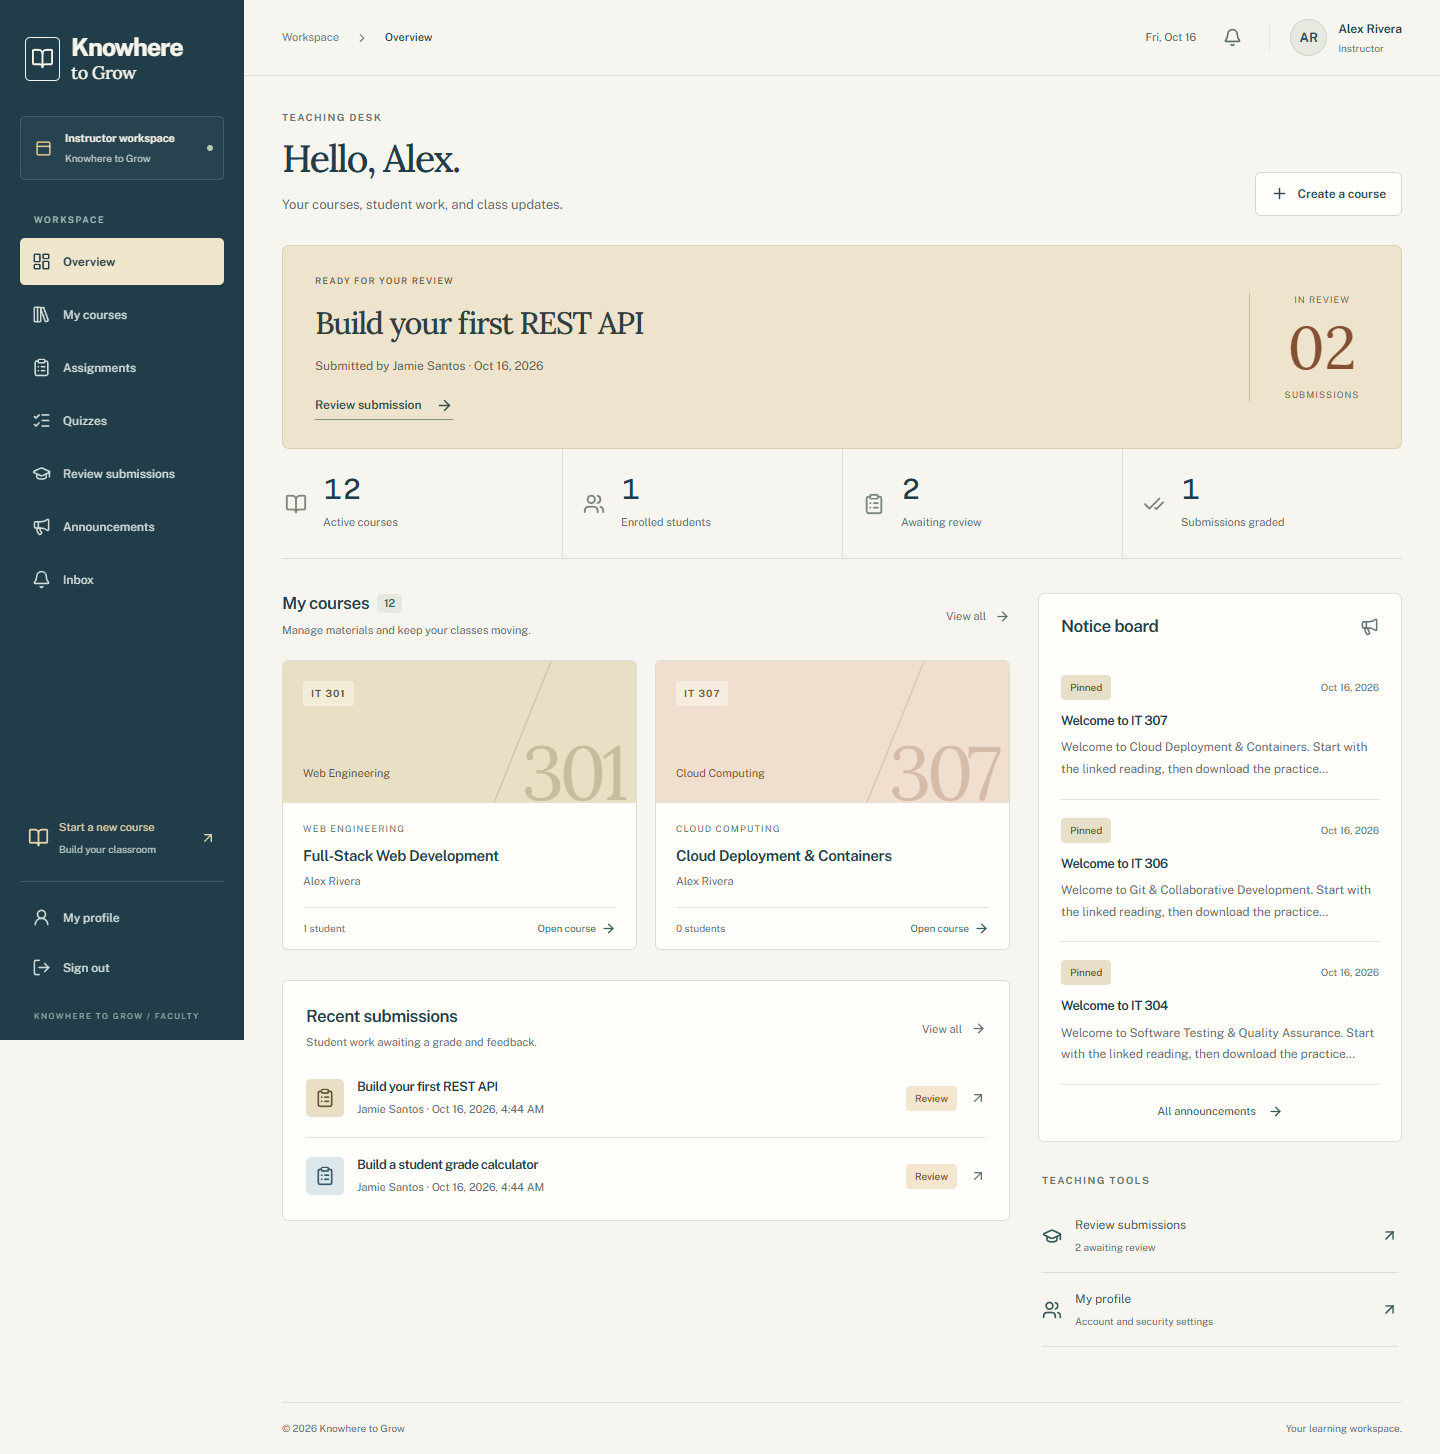
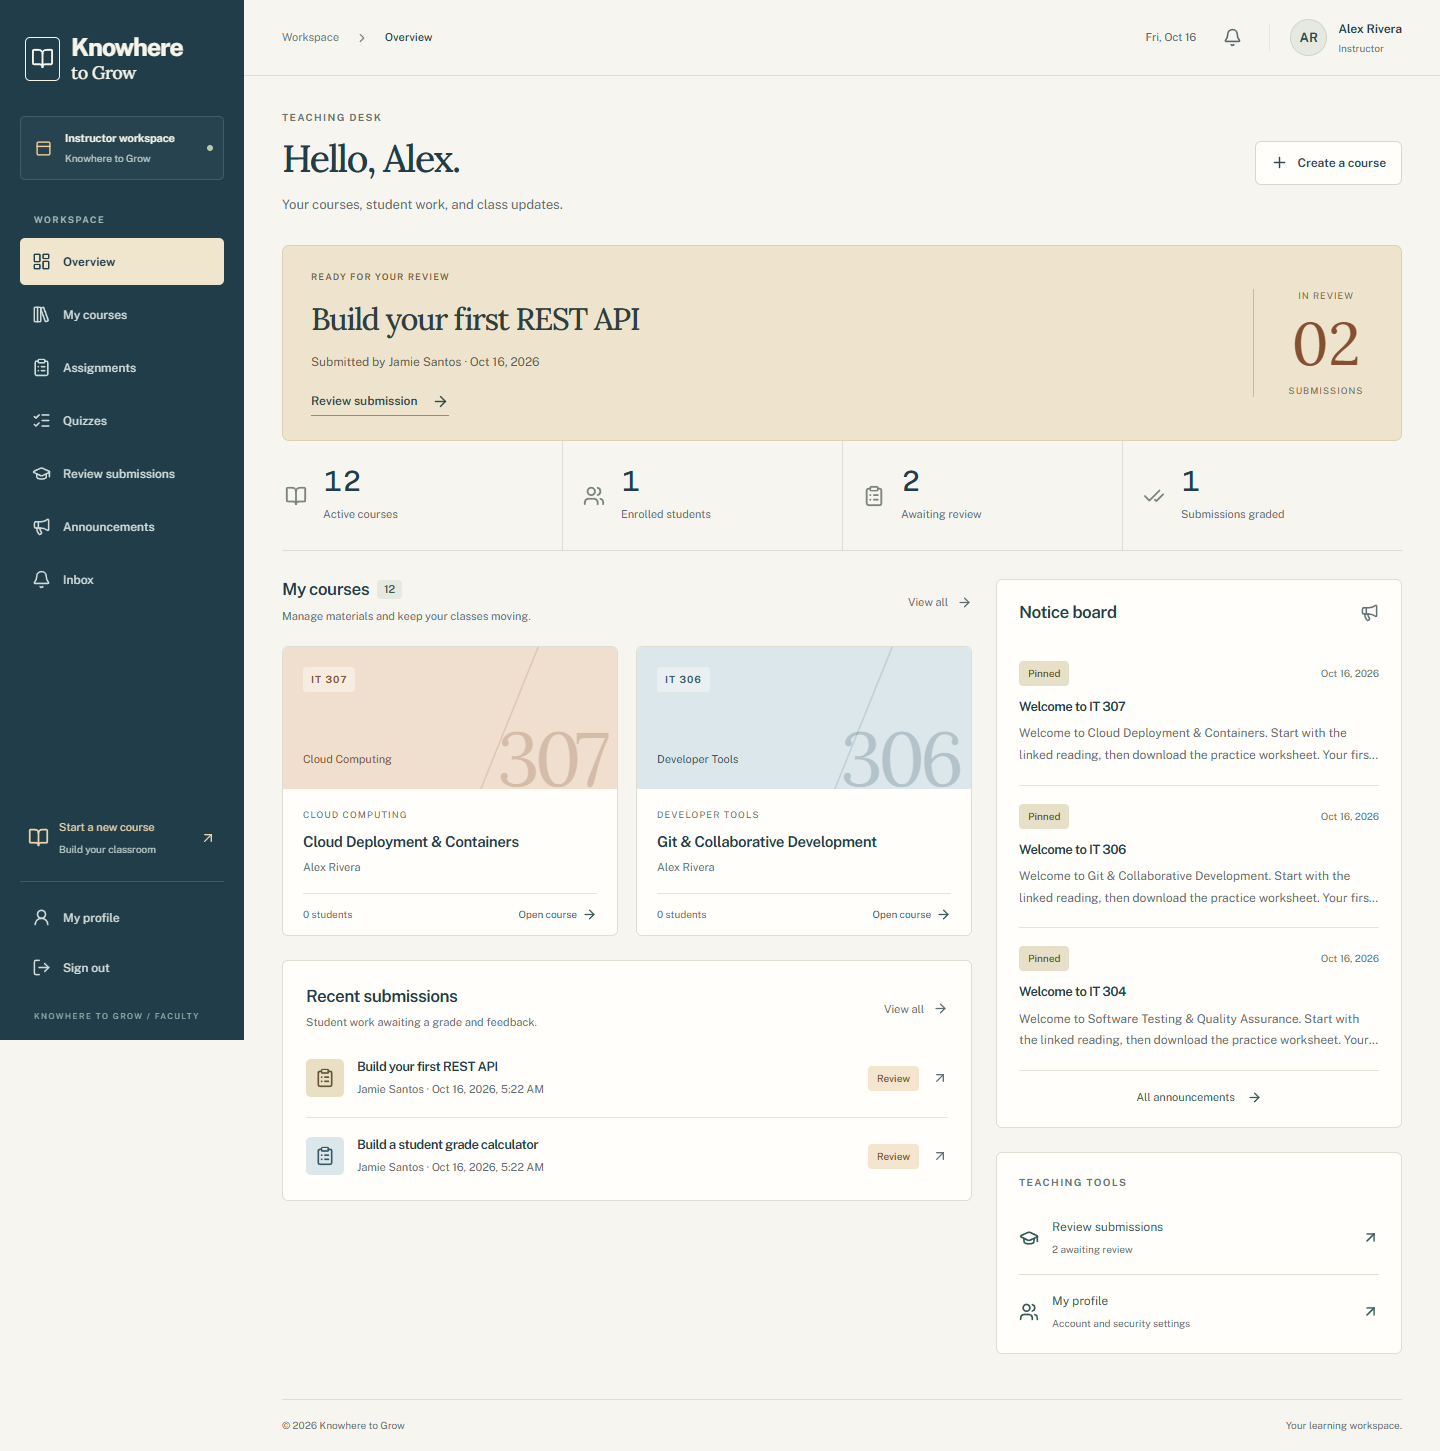
Polish dashboard layout and fix Flutter integration

diff --git a/client/src/workspace.css b/client/src/workspace.css
@@ -564,6 +564,106 @@ a:focus-visible {
   color: #5f6e70;
   margin-top: 6px;
 }
+.dashboard-page > .page-heading {
+  align-items: center;
+  gap: 24px;
+}
+.dashboard-page .welcome-banner {
+  min-height: 168px;
+  padding: 24px 28px;
+}
+.dashboard-page .stats-grid {
+  margin-bottom: 28px;
+}
+.dashboard-page .dashboard-columns {
+  grid-template-columns: minmax(0, 1.7fr) minmax(300px, 1fr);
+  align-items: start;
+  gap: 24px;
+}
+.dashboard-page .dashboard-left,
+.dashboard-page .dashboard-right {
+  min-width: 0;
+  gap: 24px;
+}
+.dashboard-page .dashboard-right {
+  display: grid;
+  grid-template-columns: minmax(0, 1fr);
+}
+.dashboard-page .dashboard-courses > .course-card:only-child {
+  grid-column: 1 / -1;
+  display: grid;
+  grid-template-columns: minmax(150px, 34%) minmax(0, 1fr);
+}
+.dashboard-page .dashboard-courses > .course-card:only-child .course-cover {
+  height: auto;
+  min-height: 178px;
+}
+.dashboard-page .dashboard-courses > .course-card:only-child .course-card-body {
+  min-width: 0;
+  display: flex;
+  flex-direction: column;
+  justify-content: center;
+  padding: 22px 24px 0;
+}
+.dashboard-page
+  .dashboard-courses
+  > .course-card:only-child
+  .course-card-footer {
+  margin-top: auto;
+}
+.dashboard-page .announcement-widget .quiet-empty.vertical {
+  min-height: 120px;
+  padding: 18px 0;
+}
+.dashboard-page .desk-links {
+  padding: 22px;
+  border: 1px solid #deded4;
+  border-radius: 6px;
+  background: #fffefb;
+}
+.dashboard-page .desk-links > a:last-child {
+  border-bottom: 0;
+  padding-bottom: 0;
+}
+@media (max-width: 1100px) {
+  .dashboard-page .dashboard-columns {
+    grid-template-columns: minmax(0, 1fr);
+  }
+  .dashboard-page .dashboard-right {
+    grid-template-columns: repeat(2, minmax(0, 1fr));
+  }
+}
+@media (max-width: 760px) {
+  .dashboard-page > .page-heading {
+    align-items: flex-start;
+    gap: 16px;
+  }
+  .dashboard-page .welcome-banner {
+    padding: 22px;
+  }
+  .dashboard-page .dashboard-right {
+    grid-template-columns: minmax(0, 1fr);
+  }
+}
+@media (max-width: 540px) {
+  .dashboard-page .dashboard-courses > .course-card:only-child {
+    grid-template-columns: minmax(0, 1fr);
+  }
+  .dashboard-page .dashboard-courses > .course-card:only-child .course-cover {
+    min-height: 125px;
+  }
+  .dashboard-page
+    .dashboard-courses
+    > .course-card:only-child
+    .course-card-body {
+    padding: 20px 20px 0;
+  }
+}
+@media (max-width: 360px) {
+  .dashboard-page .welcome-banner {
+    padding: 20px 17px;
+  }
+}
 .segmented,
 .role-picker {
   background: #eaece3;

diff --git a/client/e2e/dashboard-layout.spec.js b/client/e2e/dashboard-layout.spec.js
@@ -1,0 +1,57 @@
+import { test, expect } from "@playwright/test";
+
+test("a single instructor course fills the dashboard column and sparse content fits phone through wide desktop", async ({
+  page,
+}) => {
+  await page.route("**/api/dashboard", async (route) => {
+    const response = await route.fetch();
+    const data = await response.json();
+    await route.fulfill({
+      response,
+      json: {
+        ...data,
+        courses: data.courses.slice(0, 1),
+        assignments: [],
+        submissions: [],
+        announcements: [],
+      },
+    });
+  });
+  await page.goto("/login");
+  await page.getByLabel("Email address").fill("instructor@classroom.test");
+  await page.getByLabel("Password", { exact: true }).fill("Classroom2026!");
+  await page.getByRole("button", { name: "Sign in", exact: true }).click();
+  await expect(page.getByRole("heading", { name: /Hello,/ })).toBeVisible();
+  await expect(
+    page.getByRole("heading", { name: "Your review queue is clear." }),
+  ).toBeVisible();
+  for (const width of [320, 390, 768, 1024, 1440, 1920, 2160]) {
+    await page.setViewportSize({ width, height: 900 });
+    const grid = page.locator(".dashboard-courses");
+    const card = grid.locator(".course-card");
+    await expect(card).toHaveCount(1);
+    const gridBounds = await grid.boundingBox();
+    const cardBounds = await card.boundingBox();
+    expect(
+      Math.abs(cardBounds.width - gridBounds.width),
+      `single course fills its column at ${width}px`,
+    ).toBeLessThan(2);
+    expect(
+      await page.evaluate(
+        () => document.documentElement.scrollWidth <= innerWidth,
+      ),
+      `no overflow at ${width}px`,
+    ).toBe(true);
+    const cover = await card.locator(".course-cover").boundingBox();
+    const body = await card.locator(".course-card-body").boundingBox();
+    if (width > 540) expect(body.x).toBeGreaterThan(cover.x);
+    else expect(body.y).toBeGreaterThan(cover.y);
+    if (width === 1440 || width === 390) {
+      await page.screenshot({
+        path: `../docs/screenshots/web-instructor-dashboard-single-course${width === 390 ? "-phone" : ""}.png`,
+        fullPage: true,
+        animations: "disabled",
+      });
+    }
+  }
+});

diff --git a/client/src/Dashboard.jsx b/client/src/Dashboard.jsx
@@ -70,7 +70,7 @@ export default function Dashboard() {
         ],
       ];
   return (
-    <>
+    <div className="dashboard-page">
       <PageHeading
         eyebrow={instructor ? "TEACHING DESK" : "STUDENT DESK"}
         title={`Hello, ${user.name.split(" ")[0]}.`}
@@ -340,6 +340,6 @@ export default function Dashboard() {
           </section>
         </aside>
       </div>
-    </>
+    </div>
   );
 }

diff --git a/docs/TEST_REPORT.md b/docs/TEST_REPORT.md
@@ -17,6 +17,12 @@ Verification date: **16 October 2026 (Asia/Singapore)**. The latest checks inclu
 | Android APK/device execution | **Not verified** | Android SDK/emulator/device setup is still required |
 | iOS build/device execution | **Not verified** | Requires macOS, Xcode, and signing |
 
+## Dashboard layout verification
+
+The latest dashboard layout uses the full course-column width for a single course, with a horizontal course card on larger screens and a stacked card on phones. The review banner is more compact; the heading action, notice board, and teaching tools use consistent alignment and spacing. Styles are scoped to the learning dashboard.
+
+React lint, production build, and Vercel configuration checks passed. Six targeted Edge workflows passed: the new sparse instructor dashboard case plus all five existing student/instructor workflows. The single-course regression checks 320, 390, 768, 1024, 1440, 1920, and 2160px widths for full-width course cards and no horizontal overflow. Desktop and phone screenshots were inspected. The prior 21-test browser suite result above predates this new layout case; no full 22-test rerun is claimed. The update remains local until pushed/deployed.
+
 ## Flutter inbox and deadline-extension connection
 
 Plain flutter run previously selected localhost:8000 for browser requests. The running local service returned an older health response and the reported inbox/extension requests returned API endpoint not found. Flutter now defaults on all platforms to https://lmsfinalproject-seven.vercel.app/api; local development remains available through an explicit API_BASE_URL override.
